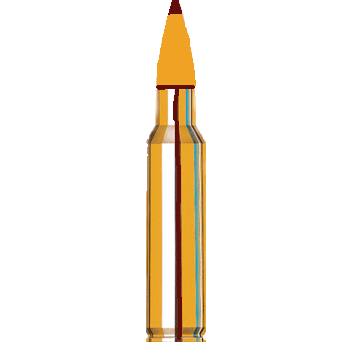
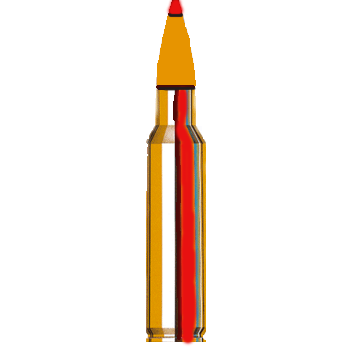
update image end size bullet

Changed region(s): [[0.4, 0.0, 0.6, 1.0]]

diff --git a/PinPong/ViewController.m b/PinPong/ViewController.m
@@ -138,7 +138,7 @@
 
 -(void)addBulletPlayer
 {
-    bulletPlayer = [[BulletPlayer alloc] initWithFrame:CGRectMake(boardPlayer.center.x, boardPlayer.center.y-100, 20, 40)];
+    bulletPlayer = [[BulletPlayer alloc] initWithFrame:CGRectMake(boardPlayer.center.x, boardPlayer.center.y-100, 22, 35)];
     bulletPlayer.cntrl = self;
     bulletPlayer.objectSpeed = CGPointMake(0, -1);
     [self.view addSubview:bulletPlayer];
@@ -148,7 +148,7 @@
 
 -(void)addBulletRobot
 {
-    bulletRobot = [[BulletRobot alloc] initWithFrame:CGRectMake(boardPlayer.center.x, boardRobot.center.y, 20, 40)];
+    bulletRobot = [[BulletRobot alloc] initWithFrame:CGRectMake(boardPlayer.center.x, boardRobot.center.y, 22, 35)];
     bulletRobot.cntrl = self;
     bulletRobot.objectSpeed = CGPointMake(0, 1);
     [self.view addSubview:bulletRobot];
